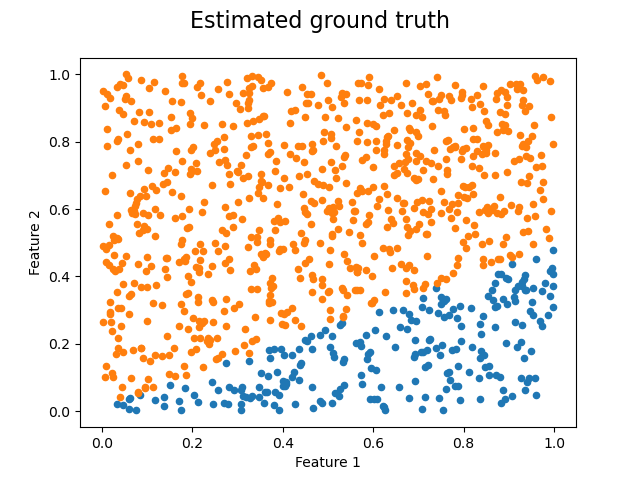
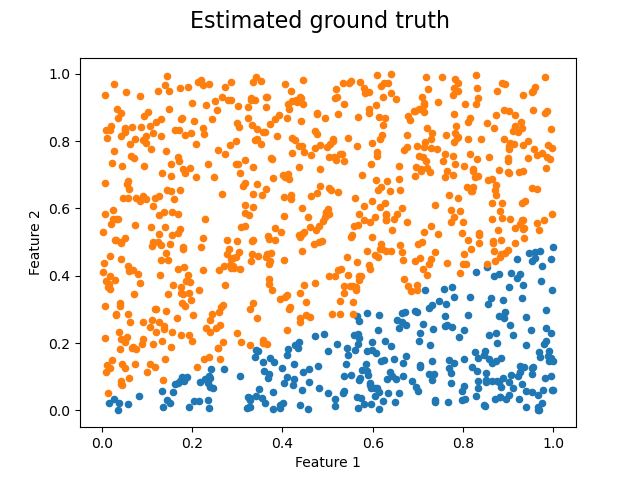
Set seed correctly

diff --git a/presentation_plots.py b/presentation_plots.py
@@ -1,8 +1,7 @@
-import random
 from yan_yan_et_al import *
 from plotting import *
 
-random.seed(1234)
+np.random.seed(1234)
 
 a_real = np.array([1, -2, 0])
 x, y = generate_data(1000, a_real)
